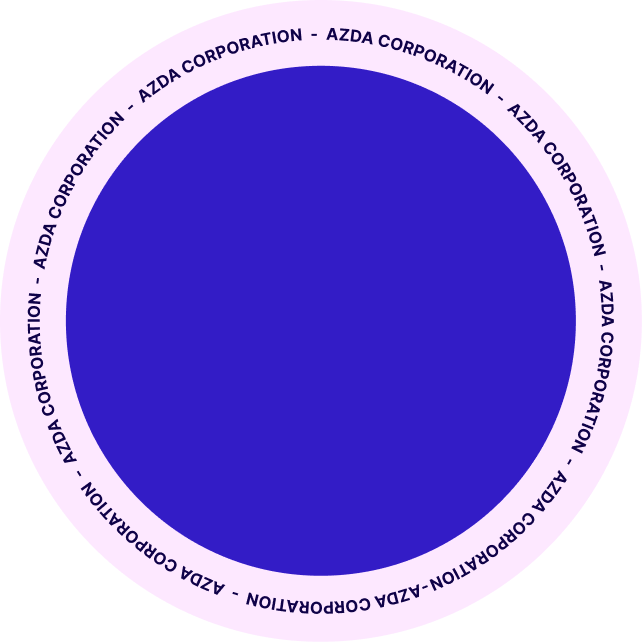
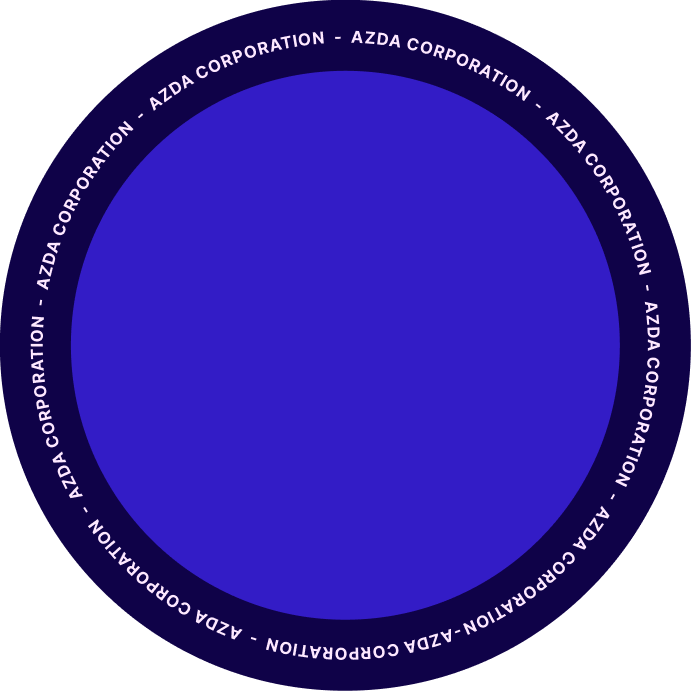
Coorecciones

Changed region(s): [[0.0, 0.0, 1.0, 1.0]]

diff --git a/src/app/components/nosotros.tsx b/src/app/components/nosotros.tsx
@@ -1,11 +1,32 @@
+import Linkedin from "./svgs/linkedin";
+
 export default function Nosotros() {
 	return (
 		<section id="nosotros" className="foregroundColor py-[60px] lg:py-[100px] px-4 relative overflow-clip">
 			<div className="max-w-[1200px] mx-auto px-4">
 				<div className="hidden lg:block absolute -right-[200px] top-[calc(50%-331px)] size-[662px]">
+					{/* Enlaces a Linkedin */}
+					<a 
+						className="z-50 flex items-center justify-center bg-[#0F0248] size-[55px] rounded-full absolute top-[40px] left-[50px]" 
+						href="https://linkedin.com"
+						target="_blank"
+					><Linkedin/></a>
+					<a 
+						className="z-50 flex items-center justify-center bg-[#0F0248] size-[55px] rounded-full absolute top-[250px] -left-[66px]" 
+						href="https://linkedin.com"
+						target="_blank"
+					><Linkedin/></a>
+					<a 
+						className="z-50 flex items-center justify-center bg-[#0F0248] size-[55px] rounded-full absolute bottom-[35px] left-[50px]" 
+						href="https://linkedin.com"
+						target="_blank"
+					><Linkedin/></a>
+					{/* Rueda */}
 					<img className="rotate-on-scroll" src="/images/rueda-nosotros.png" alt="Rueda" />
+					{/* Fotos Chicos */}
 					<img className="z-30 absolute top-[37px] -left-[66px] w-[491px] h-[588px]" src="/images/fotos-y-logo-azda.png" alt="Nosotros Azda" />
 
+					{/* Lineas Con Animacion */}
 					<div className="absolute left-0 overflow-clip top-[calc(50%)]">
 						<div className="translate-x-on-scroll -left-[500px] z-20 nosotros-dashed h-[2.2px] w-[1500px]"></div>
 					</div>
@@ -18,19 +39,17 @@ export default function Nosotros() {
 				</div>
 				<img className="block lg:hidden mb-[20px]" src="/images/rueda-nosotros-mobile.webp" alt="Rueda Nosotros" />
 				<div className="lg:max-w-[50%] 2xl:max-w-[60%]">
-					<h2 className="text-[30px] lg:text-[42px] text-white font-extrabold mb-[30px]">¿Qué es Azda?</h2>
-					<p className="text-white font-medium text-[16px]">
-						Las redes sociales han revolucionado la forma en que nos presentamos en el mercado laboral. No importa cuán talentoso seas o cuán exitosa sea tu empresa, si no tienes una presencia digital estratégica, estás perdiendo oportunidades valiosas.  
-						<br/><br/>
-						En Azda, entendemos el poder del marketing digital para impulsar tu carrera o negocio. 
-						<br/><br/>
-						Te ayudamos a construir una marca sólida en línea, no solo a nivel local, sino también a expandirte globalmente. 
-						<br/><br/>
-						Esto no solo significa un mayor alcance y crecimiento, sino también la posibilidad de acceder a mercados internacionales con mayores ingresos.  
-						<br/><br/>
-						Nuestro enfoque es simple: acompañarte en tu "mudanza digital". Juntos, optimizaremos tu presencia en línea para atraer a clientes de alto valor y generar oportunidades de negocio que impulsen tu crecimiento tanto en cantidad como en calidad.  
-						<br/><br/>						
-						Las oportunidades en el mundo digital esperan por ti. Contáctanos hoy mismo y descubre cómo podemos ayudarte a alcanzar tus objetivos!
+					<h2 className="text-[30px] lg:text-[42px] text-white leading-[120%] font-extrabold mb-[30px]">¿Qué es Azda Corporation y quiénes somos?</h2>
+					<p className="normal-case text-white/90 font-medium text-[16px] text-justify">
+						Azda Corporation, es tu aliado estratégico enfocado a impulsar tu negocio de Coaching o Consultoría hacia el éxito. Nuestra misión es clara: proporcionarte la información, sistemas, equipo y el expertise necesarios para alcanzar tus metas.
+						<br /><br />
+						Fundada por Vicente Calderón, Mateo Retamar y Octavio Navarta, <strong className="text-white">tres jóvenes fanáticos del marketing digital y la creación de sistemas constantes</strong>.
+						<br /><br />
+						Somos expertos en soluciones digitales a medida para el mercado de Coaching y Consultores. Con un equipo de profesionales apasionados, diseñamos embudos de adquisición de clientes altamente efectivos y estrategias de posicionamiento de marca que te convertirán en un referente en tu rubro.
+						<br /><br />
+						No somos simplemente un proveedor de servicios, sino tus socios en el crecimiento.
+						<br /><br />
+						Priorizamos la personalización y nos aseguramos de que cada socio con el que trabajemos obtenga resultados óptimos y eficientes.
 					</p>
 				</div>
 			</div>

diff --git a/src/app/components/agenda.tsx b/src/app/components/agenda.tsx
@@ -1,13 +1,23 @@
 export default function Agenda () {
 	return (
-		<section className="foregroundColor py-[60px] lg:py-[100px] px-4 relative">
+		<section id="calendlyDos" className="foregroundColor py-[60px] lg:py-[100px] px-4 relative">
 			<div className="tc-container">
-				<h2 className="max-w-[1000px] mx-auto leading-[110%] text-center text-[30px] lg:text-[42px] text-white font-extrabold">Si quieres llegar a nuevos clientes todos los meses, aumentar tu facturación y por fin estar tranquilo sin depender de tu mercado cálido pero no sabes como...</h2>
+				<h2 className="max-w-[1000px] mx-auto leading-[110%] text-center text-[30px] lg:text-[42px] text-white font-extrabold">Si estas cansado de depender de tu mercado calido y de no tener estabilidad pero te sentis abrumado por que no sabes como mejorarlo.</h2>
 				<svg className="animate-bounce size-[40px] block mx-auto my-[20px] backgroundColor rounded-full p-[10px]" fill="#FFF" xmlns="http://www.w3.org/2000/svg" viewBox="0 0 320 512"><path d="M2 334.5c-3.8 8.8-2 19 4.6 26l136 144c4.5 4.8 10.8 7.5 17.4 7.5s12.9-2.7 17.4-7.5l136-144c6.6-7 8.4-17.2 4.6-26s-12.5-14.5-22-14.5l-72 0 0-288c0-17.7-14.3-32-32-32L128 0C110.3 0 96 14.3 96 32l0 288-72 0c-9.6 0-18.2 5.7-22 14.5z"/></svg>
-				<h3 className="w-fit mx-auto leading-[110%] text-center text-[30px] lg:text-[36px] text-white font-extrabold mb-[30px] lg:mb-0">AGENDA TU SESIÓN DE <span className="tcp-underline --4">CONSULTORÍA GRATUITA</span></h3>
-				<div className="relative h-[700px]">
-					<div className="absolute z-20 size-[400px] left-[calc(50%-200px)] top-[calc(50%-200px)] foregroundColor blur-[140px]"></div>
-					<div className="relative z-40 calendly-inline-widget" data-url="https://calendly.com/-azda/corporation?hide_gdpr_banner=1" style={{minWidth:'320px', height:'700px'}}></div>
+				<h3 className="w-fit mx-auto leading-[110%] text-center text-[30px] lg:text-[36px] text-white font-extrabold mb-[30px] lg:mb-0">AGENDA TU SESIÓN DE <span>CONSULTORÍA GRATUITA</span></h3>
+				<div className="flex flex-col-reverse md:flex-row justify-center gap-[40px] lg:pt-[50px]">
+					<div className="w-[450px] max-w-full pt-[40px]">
+						<h3 className="text-white font-bold text-[24px] uppercase leading-[110%]">¡Quiero lograr mis objetivos! <br/> ¿Como agendo mi asesoria?</h3>
+						<ol className="text-white list-decimal list-inside font-semibold my-[30px]">
+							<li>Selecciona un dia disponible en el calendario 👉</li>
+							<li>Elegi un horario que tengas libre ⏰</li>
+							<li>Completa con tus datos para que te podamos mandar el enlace 🔗</li>
+						</ol>
+						<p className="text-white text-[16px]">Y listo, diste el primer paso hacia tu meta. El dia de la llamada te va llegar un enlace a Meet por Correo y por Whatsapp.</p>
+					</div>
+					<div className="relative bg-white lg:p-[40px] lg:rounded-[8px]">
+						<div className="relative z-40 w-[450px] max-w-full calendly-inline-widget" data-url="https://calendly.com/-azda/corporation?hide_event_type_details=1&hide_gdpr_banner=1" style={{minWidth:'320px', height:'700px'}}></div>
+					</div>
 				</div>
 			</div>
 		</section>

diff --git a/src/app/components/proceso.tsx b/src/app/components/proceso.tsx
@@ -45,7 +45,7 @@ export default function proceso() {
 			aclaracion: ""
 		},
 		{
-			titulo: "7. Escalar y repetir",
+			titulo: "7. Escalar y repetir el proceso cada mes",
 			descripcion: "Por último repetiremos el ciclo de ventas hasta agregar 7,500 USD extra en tu facturación y hacerlo de manera predecible y sostenible en el tiempo.",
 			imgUrl: "/images/azda-paso-7.jpg",
 			aclaracion: ""
@@ -55,23 +55,24 @@ export default function proceso() {
 	return (
 		<section id="proceso" className="backgroundColor py-[60px] lg:py-[100px] px-4 relative overflow-clip">
 			<div className="tc-container">
-				<h2 className="max-w-[900px] mx-auto leading-[110%] text-center text-[30px] lg:text-[42px] text-white font-extrabold mb-[30px]">
-					La estrategia que usamos para escalar el negocio de todos nuestros clientes
+				<h2 className="max-w-[900px] mx-auto leading-[110%] text-center text-[30px] lg:text-[42px] text-white font-extrabold mb-[20px]">
+					El Paso a paso que usamos para escalar el negocio de todos nuestros clientes
 				</h2>
+				<p className="--sora text-center max-w-[700px] mx-auto text-[18px] text-white/80 lg:text-[22px] font-medium mb-[60px]">Creamos el sistema perfecto para que puedas estar tranquilo consiguiendo nuevos clientes premium todos los meses.</p>
 				<div className="max-w-[1000px] mx-auto mt-[60px]">
 					{
 						STEPS.map((step, i) => {
 							console.log(i);
 							return (
-								<div className="grid lg:grid-cols-2 gap-[20px] lg:gap-[35px] mb-[45px] last:mb-0 lg:h-[250px]">
+								<div className="grid lg:grid-cols-2 gap-[20px] lg:gap-[35px] mb-[50px] last:mb-0 lg:h-[250px]">
 									<div className={`max-w-[500px] mx-auto flex flex-col justify-center ${i % 2 === 0 ? 'appear-from-left' : 'appear-from-right'}`}>
 										<h3 className="font-bold text-[24px] text-[#FFF] mb-[10px]">{step.titulo}</h3>
-										<p className="text-[16px] text-white/80">{step.descripcion}</p>
+										<p className="text-[16px] normal-case text-white/80">{step.descripcion}</p>
 									</div>
 									<div className={`max-w-[500px] mx-auto w-full h-full ${i % 2 === 0 ? 'appear-from-right -order-1 lg:order-2' : 'appear-from-left -order-1'}`} >
 										{
 											step.aclaracion ? (
-												<img className="absolute -top-[45px] -right-[100px] max-w-[230px] h-auto" src={step.aclaracion} alt="Aclaracion de paso" />
+												<img className="absolute -top-[35px] md:-top-[45px] -right-[20px] md:-right-[100px] max-w-[230px] h-auto" src={step.aclaracion} alt="Aclaracion de paso" />
 											) : ''
 										}
 										<img 

diff --git a/src/app/components/testimonios.tsx b/src/app/components/testimonios.tsx
@@ -11,7 +11,7 @@ export default function TestimoniosSection() {
 
 	const TESTIMONIOS: Testimonio[] = [
 		{
-		  cita: "Creo que no fue un gasto, fue una inversión de dinero",
+		  cita: "Me conectaron con +150 potenciales clientes interesados en mi servicio",
 		  url: "https://fast.wistia.net/embed/iframe/omy7h0uw6u?seo=true&videoFoam=true",
 		  nombre: "Edgar Peña",
 		  cargo: "Consultora De RRHH",
@@ -31,7 +31,7 @@ export default function TestimoniosSection() {
 	];
 
 	return (
-		<section id="testimonios" className="foregroundColor py-[100px] relative">
+		<section id="testimonios" className="foregroundColor py-[60px] lg:py-[100px] relative">
 			<div className="testimonials-extra-shape"></div>
 			<div className="max-w-[1200px] mx-auto px-4">
 				<div className="flex gap-[7px] justify-center">
@@ -41,7 +41,7 @@ export default function TestimoniosSection() {
 					<Star/>
 					<Star/>
 				</div>
-				<h2 className="text-center text-[30px] lg:text-[42px] font-extrabold leading-[110%] max-w-[900px] mx-auto mt-[14px] mb-[10px]">Nuestros ultimos <span className="tcp-underline --4">Casos de éxito</span></h2>
+				<h2 className="text-center text-[30px] lg:text-[42px] font-extrabold leading-[110%] max-w-[900px] mx-auto mt-[14px] mb-[10px]">Últimos casos de éxito</h2>
 				<p className="--sora text-center max-w-[600px] mx-auto text-[18px] lg:text-[22px] font-medium mb-[60px]">Estos son algunos de nuestros casos de éxito, invirtieron con nosotros y escalamos su coaching/consultoría.</p>
 				<div className="grid lg:grid-cols-2 gap-x-[40px] gap-y-[50px]">
 					{
@@ -66,10 +66,10 @@ export default function TestimoniosSection() {
 					}
 					<div className="block">
 						<p className="font-semibold text-[20px] lg:text-[24px] mb-[15px] text-center">
-							"Yo tambien quiero empezar a facturar usd7.500, ¿Comó Hago?"
+							"Yo también quiero empezar a ganar $7.500 USD ¿Cómo hago?"
 						</p>
-						<a href="#calendlyDos" className="bg-[#ECE8FF] p-[39px] h-[315px] flex flex-col items-center justify-center">
-							<h3 className="text-[32px] font-bold text-[#0F0248] leading-[110%] text-center">
+						<a href="#calendlyDos" className="bg-[#0F0248] p-[39px] h-[315px] flex flex-col items-center justify-center">
+							<h3 className="text-[32px] font-bold text-[#FFF] leading-[110%] text-center">
 								¡Hace <span className="underline">click acá</span> y agenda tu sesión gratuita, Este puede ser tu lugar!
 							</h3>
 						</a>

diff --git a/src/app/components/beneficiosPrincipales.tsx b/src/app/components/beneficiosPrincipales.tsx
@@ -2,24 +2,36 @@ import Check from "./svgs/check";
 
 export default function BeneficiosPrincipales() {
 	return (
-		<ul className="mt-[30px] flex flex-col gap-[14px] items-center lg:items-start lg:gap-0 lg:flex-row justify-between w-full md:px-[60px]">
-			<li className="flex gap-[10px] items-center text-[20px] font-medium">
+		<ul className="mt-[30px] flex flex-wrap flex-col gap-x-[14px] gap-y-[30px] items-center lg:items-start lg:gap-x-[25px] lg:flex-row justify-center w-full">
+			<li className="flex gap-[10px] items-center text-[18px] font-medium">
 				<div className="foregroundColor rounded-full flex items-center justify-center size-[35px]">
 					<Check />
 				</div>
-				7.500usd por mes
+				+54 llamadas calificadas con posibles clientes
 			</li>
-			<li className="flex gap-[10px] items-center text-[20px] font-medium">
+			<li className="flex gap-[10px] items-center text-[18px] font-medium">
 				<div className="foregroundColor rounded-full flex items-center justify-center size-[35px]">
 					<Check />
 				</div>
-				Garantizado por contrato
+				<p>Entrenamiento <strong>EXCLUSIVO</strong> en ventas</p>
 			</li>
-			<li className="flex gap-[10px] items-center text-[20px] font-medium">
+			<li className="flex gap-[10px] items-center text-[18px] font-medium">
 				<div className="foregroundColor rounded-full flex items-center justify-center size-[35px]">
 					<Check />
 				</div>
-				Sistemas listos para usar
+				Acompañamiento 24/7
+			</li>
+			<li className="flex gap-[10px] items-center text-[18px] font-medium">
+				<div className="foregroundColor rounded-full flex items-center justify-center size-[35px]">
+					<Check />
+				</div>
+				Comunidad de Coaches exclusiva
+			</li>
+			<li className="flex gap-[10px] items-center text-[18px] font-medium">
+				<div className="foregroundColor rounded-full flex items-center justify-center size-[35px]">
+					<Check />
+				</div>
+				+7500 USD Asegurados Por Contrato
 			</li>
 		</ul>
 	)

diff --git a/src/app/components/vslA.tsx b/src/app/components/vslA.tsx
@@ -6,7 +6,7 @@ export default function VslA() {
 	return (
 		<section id="vsl" className="relative z-40 mx-auto max-w-[1200px] pt-[100px] px-4 ">
 			<div>
-				<h2 className="text-center text-[30px] lg:text-[42px] font-extrabold leading-[110%] max-w-[900px] mx-auto mb-[40px]">Te Cuento como vos podes hacerlo</h2>
+				<h2 className="text-center text-[30px] lg:text-[42px] font-extrabold leading-[110%] max-w-[900px] mx-auto mb-[40px]">TE CUENTO COMO VAMOS A LOGRARLO CON VOS</h2>
 				<p className="bg-[#2404B1] text-center p-[13px] text-[18px] font-bold text-white">PASO 1 de 2: Mira Este Video <span className="text-red-500">*</span></p>
 				<div className="bg-gray-500 w-full aspect-video">	
 					<iframe 										
@@ -22,7 +22,8 @@ export default function VslA() {
 			</div>
 			<BeneficiosPrincipales/>
 			<div className="mt-[80px]">
-				<p className="text-center text-[22px] font-bold text-white relative z-50">PASO 2 de 2:<br/><span className="tcp-underline --4">Agendá tu sesión gratis ahora</span></p>
+				<p className="text-center text-[22px] font-bold text-white relative z-50">PASO 2 de 2:<br/><span>¡Agendá tu sesión gratis ahora!</span></p>
+				<p className="text-center text-[16px] text-white/80 max-w-[600px] mx-auto">Programa tu llamada 100% gratuita en el calendario de abajo para ver si sos un buen fit para nuestro programa</p>
 				<div className="relative h-[700px] mt-[30px] lg:-mt-[40px]">
 					<div className="absolute z-20 size-[400px] left-[calc(50%-200px)] top-[calc(50%-200px)] foregroundColor blur-[140px]"></div>
 					<div className="relative z-40 calendly-inline-widget" data-url="https://calendly.com/-azda/corporation?hide_gdpr_banner=1" style={{minWidth:'320px', height:'700px'}}></div>

diff --git a/src/app/components/heroA.tsx b/src/app/components/heroA.tsx
@@ -11,7 +11,7 @@ export default function HeroSectionA() {
 				<img className="absolute top-0 left-0 w-full h-full object-cover" src="/images/azda-banner-bg.webp" alt="Azda" />
 				<section className="relative z-40 max-w-[1200px] mx-auto pt-[60px] lg:pt-[90px] px-4">
 					<span className="block mx-auto --sora text-[18px] lg:text-[22px] font-semibold text-center text-white/80">¿que tu facturación mensual sea variable no te deja estar tranquilo?</span>
-					<h1 className="text-center text-[36px] lg:text-[60px] font-extrabold leading-[110%] max-w-[1100px] mx-auto my-[20px]">Escalamos la facturación de tu negocio de coaching o consultoría de manera predecible y sostenible en el tiempo.</h1>
+					<h1 className="text-center text-[36px] lg:text-[60px] tracking-tight font-extrabold leading-[110%] max-w-[1100px] mx-auto my-[20px]">Escalamos la facturación de tu negocio de coaching o consultoría de manera predecible y sostenible en el tiempo.</h1>
 					<p className="--sora text-center max-w-[930px] mx-auto text-[18px] lg:text-[22px] font-medium text-white/80">Creamos Sistemas validados y metodologías probadas para llegar a clientes premium en todo el mundo a través de las redes sociales.</p>
 					<Cta/>
 					<div className="dark-beneficts mt-[45px]">

diff --git a/src/app/components/hero.tsx b/src/app/components/hero.tsx
@@ -9,7 +9,7 @@ export default function HeroSection() {
 			<Header/>
 			<section className="relative z-40 max-w-[1200px] mx-auto pt-[60px] lg:pt-[90px] px-4">
 				<span className="block mx-auto --sora text-[22px] font-semibold text-center text-white/80">¿que tu facturación mensual sea variable no te deja estar tranquilo?</span>
-				<h1 className="text-center text-[60px] font-extrabold leading-[110%] max-w-[1100px] mx-auto my-[20px]">Escalamos la facturación de tu negocio de coaching o consultoría de manera predecible y sostenible en el tiempo.</h1>
+				<h1 className="text-center text-[55px] font-extrabold leading-[110%] max-w-[1100px] mx-auto my-[20px]">Escalamos la facturación de tu negocio de coaching o consultoría de manera predecible y sostenible en el tiempo.</h1>
 				<p className="--sora text-center max-w-[930px] mx-auto text-[22px] font-medium text-white/80">Creamos Sistemas validados y metodologías probadas para llegar a clientes premium en todo el mundo a través de las redes sociales.</p>
 			</section>
 		</div>

diff --git a/src/app/components/cta.tsx b/src/app/components/cta.tsx
@@ -2,12 +2,12 @@ export default function Cta() {
 	return (
 		<div className="lg:w-fit mx-auto">
 			<a 
-				className="block text-center w-full lg:w-fit mb-[12px] mt-[40px] mx-auto py-[24px] lg:px-[70px] text-[18px] lg:text-[22px] font-bold rounded-[4px] bg-[#ECE8FF] text-[#0F0248]"
+				className="drop-shadow-[0_35px_35px_#FFFFFF40] block text-center w-full lg:w-fit mb-[12px] mt-[40px] mx-auto py-[24px] lg:px-[70px] text-[18px] lg:text-[22px] font-bold rounded-[4px] bg-[#ECE8FF] text-[#0F0248]"
 				href="#vsl"
 			>
-				¡Agenda Tu Consulta Gratuita Ahora!
+				¡Agenda Tu Consultoria Gratuita Ahora!
 			</a>
-			<span className="block text-[16px] font-medium text-white/80 text-center">¡Podes Aumentar Tus Ventas Con Un Par De Clicks!</span>
+			<span className="block text-[16px] font-medium text-white/80 text-center">Agenda Con Un Par De Clics</span>
 		</div>
 	)
 }

diff --git a/src/app/components/vsl.tsx b/src/app/components/vsl.tsx
@@ -21,7 +21,7 @@ export default function Vsl() {
 			</div>			
 			<BeneficiosPrincipales/>
 			<div className="mt-[80px]">
-				<p className="text-center text-[22px] font-bold text-white relative z-50">PASO 2 de 2:<br/><span className="tcp-underline --4">Agendá tu sesión gratis ahora</span></p>
+				<p className="text-center text-[22px] font-bold text-white relative z-50">PASO 2 de 2:<br/><span>Agendá tu sesión gratis ahora</span></p>
 				<div className="relative h-[700px] lg:-mt-[40px]">
 					<div className="absolute z-20 size-[400px] left-[calc(50%-200px)] top-[calc(50%-200px)] foregroundColor blur-[140px]"></div>
 					<div className="relative z-40 calendly-inline-widget" data-url="https://calendly.com/-azda/corporation?hide_gdpr_banner=1" style={{minWidth:'320px', height:'700px'}}></div>

diff --git a/src/app/components/svgs/star.tsx b/src/app/components/svgs/star.tsx
@@ -1,7 +1,7 @@
 export default function Star() {
 	return (
 		<svg width="30" height="29" viewBox="0 0 30 29" fill="none" xmlns="http://www.w3.org/2000/svg">
-			<path fill-rule="evenodd" clip-rule="evenodd" d="M14.9194 0L19.0258 9.98134L29.8387 10.7813L21.5639 17.7501L24.14 28.2258L14.9194 22.5516L5.69869 28.2258L8.27509 17.7501L0 10.7813L10.8129 9.98134L14.9194 0Z" fill="#EEBE13"/>
+			<path fill-rule="evenodd" clip-rule="evenodd" d="M14.9194 0L19.0258 9.98134L29.8387 10.7813L21.5639 17.7501L24.14 28.2258L14.9194 22.5516L5.69869 28.2258L8.27509 17.7501L0 10.7813L10.8129 9.98134L14.9194 0Z" fill="#ECE8FF"/>
 		</svg>
 	)
 }

diff --git a/src/app/components/svgs/linkedin.tsx b/src/app/components/svgs/linkedin.tsx
@@ -1,0 +1,5 @@
+export default function Linkedin() {
+	return (
+		<svg className="size-[30px]" xmlns="http://www.w3.org/2000/svg" viewBox="0 0 448 512"><path fill="#FDE8FF" d="M100.3 448H7.4V148.9h92.9zM53.8 108.1C24.1 108.1 0 83.5 0 53.8a53.8 53.8 0 0 1 107.6 0c0 29.7-24.1 54.3-53.8 54.3zM447.9 448h-92.7V302.4c0-34.7-.7-79.2-48.3-79.2-48.3 0-55.7 37.7-55.7 76.7V448h-92.8V148.9h89.1v40.8h1.3c12.4-23.5 42.7-48.3 87.9-48.3 94 0 111.3 61.9 111.3 142.3V448z"/></svg>
+	)
+}
